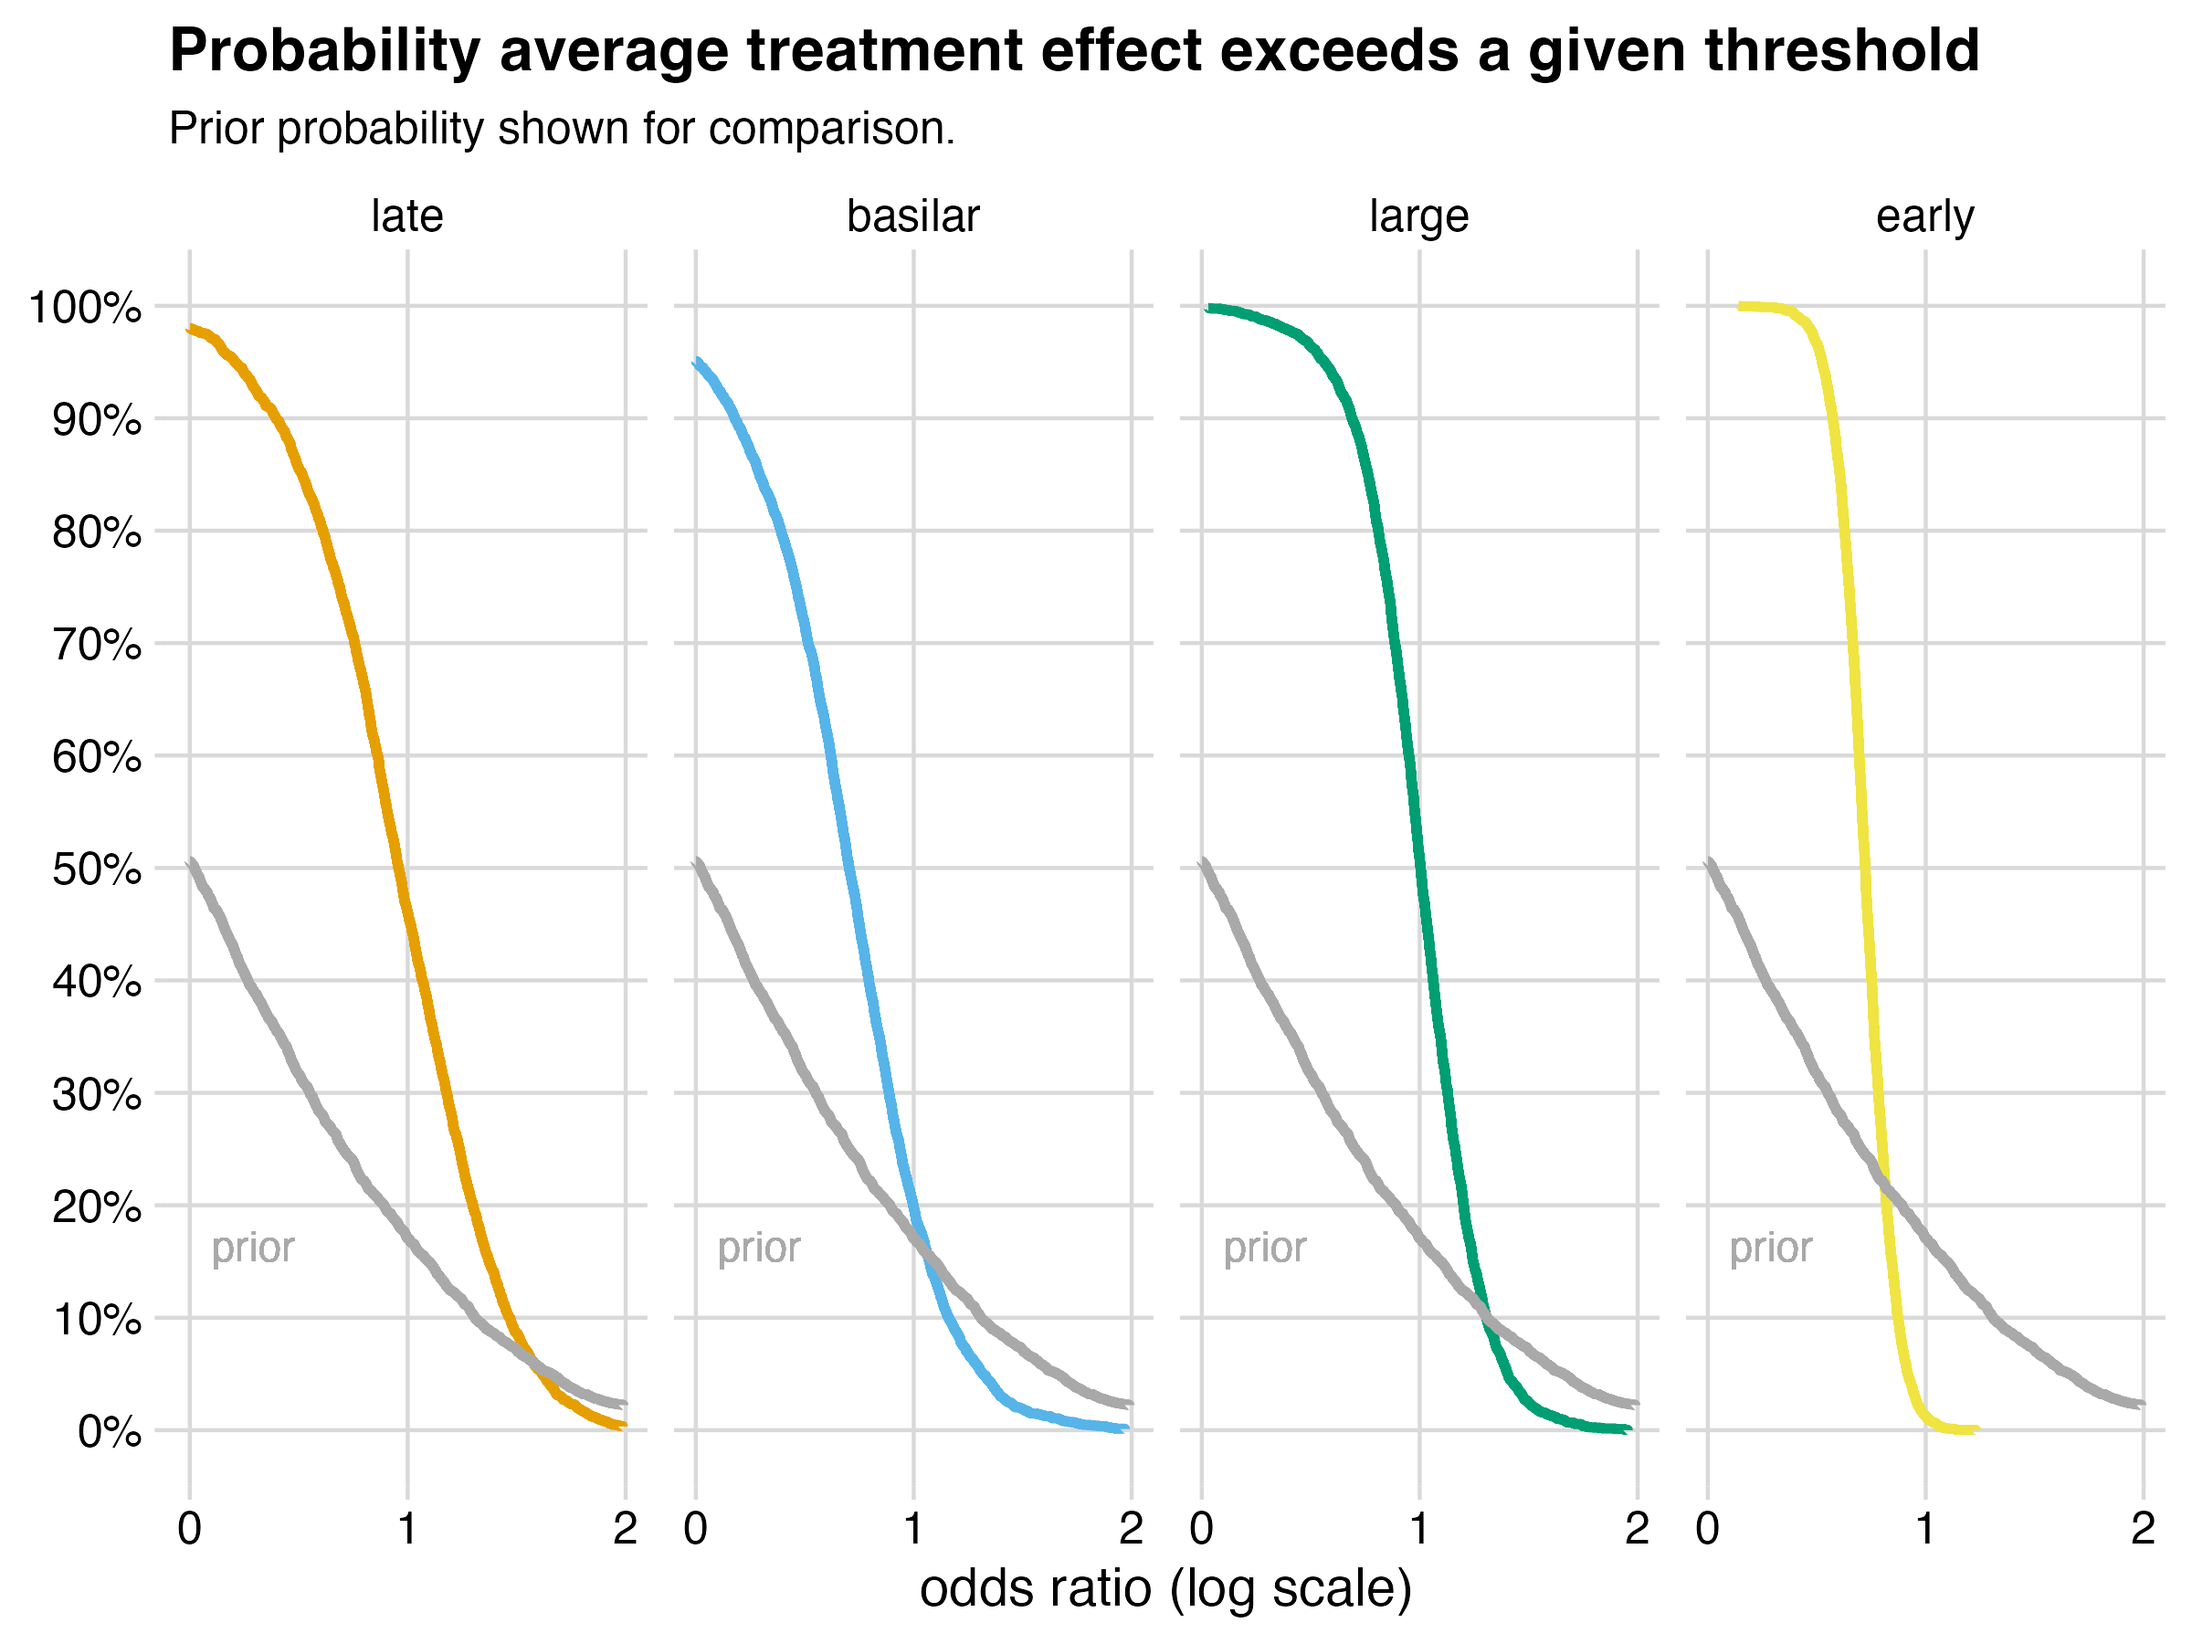
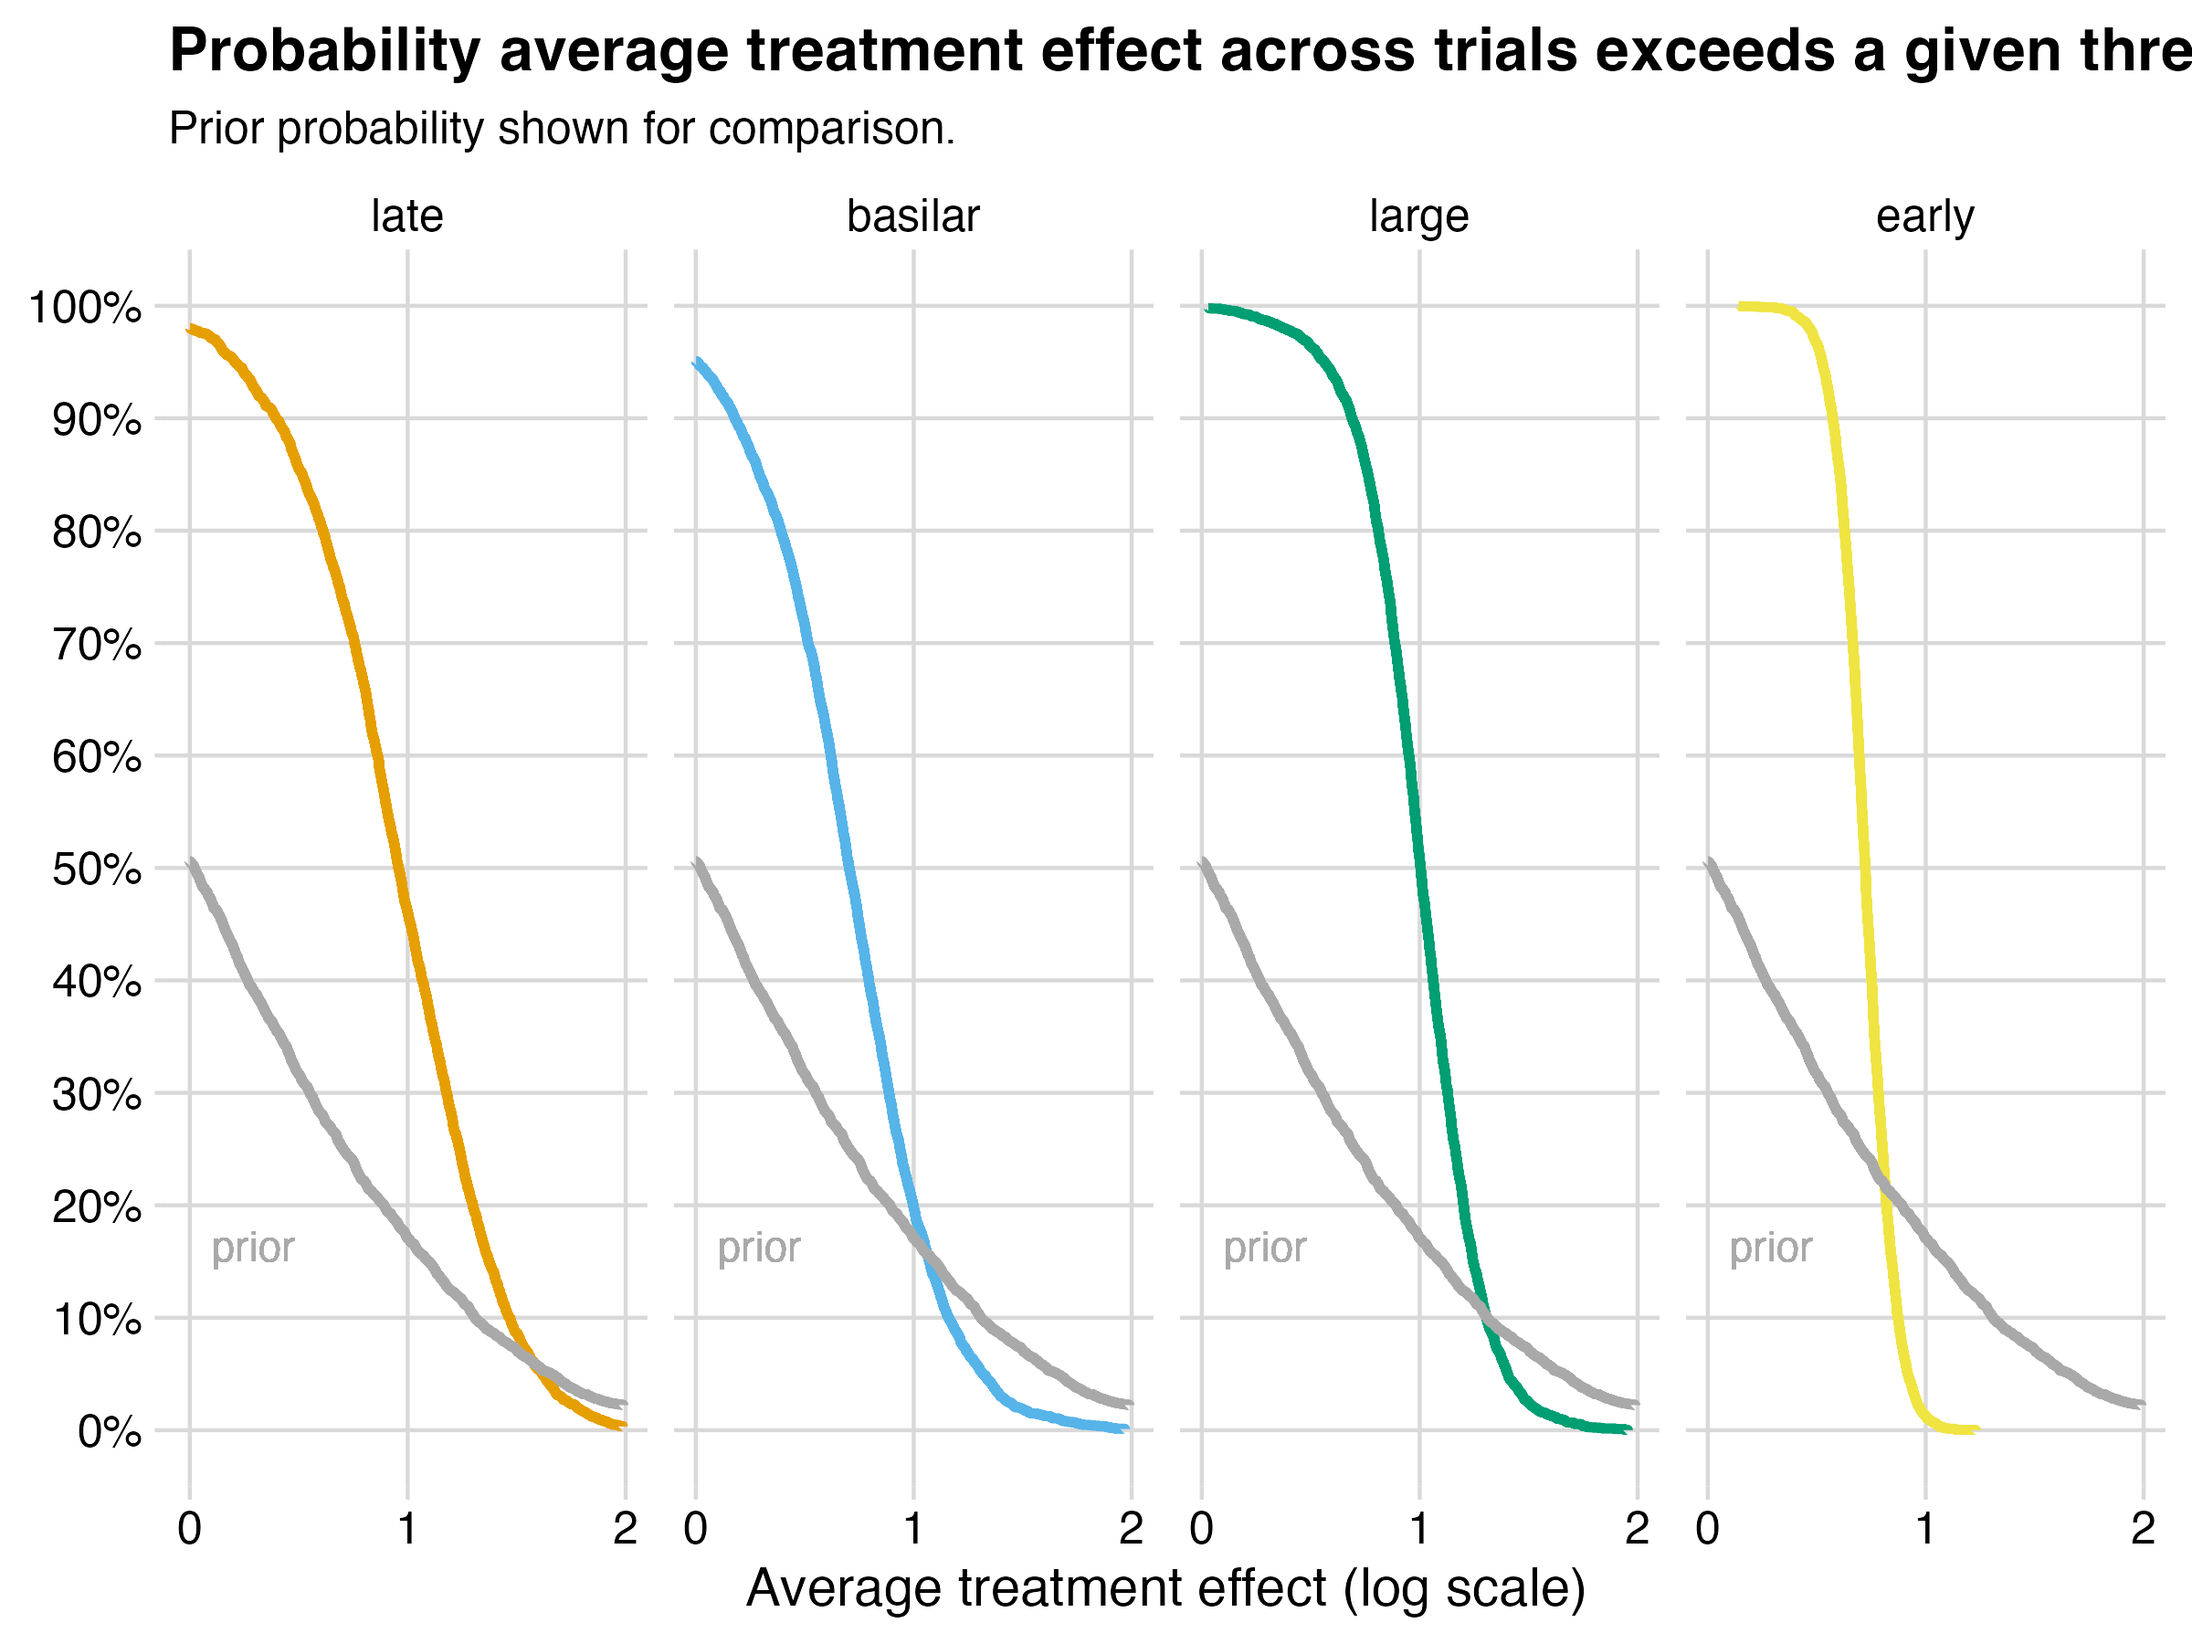
1

Changed region(s): [[0.5625, 0.0, 1.0, 0.0622], [0.3438, 0.9333, 0.7188, 0.9956]]

diff --git a/doc/analysis.md b/doc/analysis.md
@@ -14,54 +14,45 @@ anterior circulation strokes treated in a late time window. Category 4
 was strokes involving the basilar artery. The primary endpoint was
 functional independence at 90 days (modified Rankin score of 0 to 2).
 
-Results from the large stroke trials are shown here, with $y$
+Observed frequency of outcomes for control and treatment groups are
+shown below, with color corresponding to stroke type and the size of the
+bubble to the sample size of the trial. Bubbles above the grey dashed
+line denote trials in which the frequency of good outcome at 90 days was
+greater for thrombectomy patients than for those treated with best
+medical management only.
+
+![](images/scatter_plot-01.png)
+
+Effect sizes from each of the stroke trials are shown here, with $y$
 representing the observed treatment effect of thrombectomy (the odds
 ratio on the log scale) and $\text{se}$ representing the standard error
 for $y$.
 
-    # A tibble: 5 × 9
-          J name        K   n_c   r_c   n_t   r_t     y    se
-      <dbl> <chr>   <dbl> <dbl> <dbl> <dbl> <dbl> <dbl> <dbl>
-    1     1 ANGEL       1   225    26   230    69 1.19  0.253
-    2     2 RESCUE      1   102     8   100    14 0.649 0.468
-    3     3 SELECT2     1   171    12   177    36 1.22  0.353
-    4     4 TENSION     1   122     3   124    21 2.09  0.632
-    5     5 TESLA       1   146    13   151    22 0.557 0.371
-
-Results from the early stroke trials are shown here.
-
-    # A tibble: 9 × 9
-          J name          K   n_c   r_c   n_t   r_t     y    se
-      <dbl> <chr>     <dbl> <dbl> <dbl> <dbl> <dbl> <dbl> <dbl>
-    1     6 ESCAPE        2   146    43   164    89 1.04  0.240
-    2     7 EXTEND        2    34    14    35    25 1.27  0.511
-    3     8 MRCLEAN       2   265    52   233    77 0.704 0.208
-    4     9 PISTE         2    30    12    33    17 0.466 0.510
-    5    10 RESILIENT     2   111    23   111    39 0.729 0.307
-    6    11 REVASCAT      2   103    29   103    45 0.683 0.296
-    7    12 SWIFT         2    94    33    97    59 1.05  0.300
-    8    13 THERAPY       2    46    14    50    19 0.337 0.433
-    9    14 THRACE        2   202    85   200   106 0.440 0.201
-
-Results of the late stroke trials are shown here.
-
-    # A tibble: 4 × 9
-          J name            K   n_c   r_c   n_t   r_t     y    se
-      <dbl> <chr>       <dbl> <dbl> <dbl> <dbl> <dbl> <dbl> <dbl>
-    1    15 DAWN            3    99    13   107    51 1.80  0.355
-    2    16 DEFUSE3         3    91    14    91    40 1.46  0.359
-    3    17 MRCLEANLATE     3   247    84   252    99 0.228 0.186
-    4    18 POSITIVE        3    21     9    12     9 1.39  0.799
-
-Basilar stroke trial results are shown here.
-
-    # A tibble: 4 × 9
-          J name          K   n_c   r_c   n_t   r_t     y    se
-      <dbl> <chr>     <dbl> <dbl> <dbl> <dbl> <dbl> <dbl> <dbl>
-    1    19 ATTENTION     4   114    12   226    75 1.44  0.336
-    2    20 BAOCHE        4   107    15   110    43 1.37  0.340
-    3    21 BASICS        4   146    44   154    54 0.225 0.247
-    4    22 BEST          4    65    18    66    22 0.267 0.381
+    # A tibble: 22 × 5
+           J     K name            y    se
+       <dbl> <dbl> <chr>       <dbl> <dbl>
+     1     1     1 ANGEL       1.19  0.253
+     2     2     1 RESCUE      0.649 0.468
+     3     3     1 SELECT2     1.22  0.353
+     4     4     1 TENSION     2.09  0.632
+     5     5     1 TESLA       0.557 0.371
+     6     6     2 ESCAPE      1.04  0.240
+     7     7     2 EXTEND      1.27  0.511
+     8     8     2 MRCLEAN     0.704 0.208
+     9     9     2 PISTE       0.466 0.510
+    10    10     2 RESILIENT   0.729 0.307
+    11    11     2 REVASCAT    0.683 0.296
+    12    12     2 SWIFT       1.05  0.300
+    13    13     2 THERAPY     0.337 0.433
+    14    14     2 THRACE      0.440 0.201
+    15    15     3 DAWN        1.80  0.355
+    16    16     3 DEFUSE3     1.46  0.359
+    17    17     3 MRCLEANLATE 0.228 0.186
+    18    18     3 POSITIVE    1.39  0.799
+    19    19     4 ATTENTION   1.44  0.336
+    20    20     4 BAOCHE      1.37  0.340
+    21    21     4 BASICS      0.225 0.247
+    22    22     4 BEST        0.267 0.381
 
 The pooled data by category are shown in the following table.
 
@@ -80,48 +71,45 @@ The overall pooled data is shown in the following table.
        <int>         <dbl> <dbl>  <dbl>
     1     22          5513 0.744 0.0611
 
-## Estimated average treatment effect of thrombectomy across trials
+## Average treatment effect
 
-![](images/density_posterior.png)
+The estimated average treatment effect of thrombectomy across trials for
+each stroke type is shown below.
+
+![](images/histogram_posterior.png)
 
 For early stroke, the plotted values correspond to an estimated 106%
 average improvement in the odds of functional independence at 90 days
-with thrombectomy (95% CI 61.9% to 161%, P(+) = 100%).
+with thrombectomy (95% CI 61.9% to 161%). The probability that the
+effect is positive is 100%.
 
 For large stroke, the plotted values correspond to an estimated 173%
 average improvement in the odds of functional independence at 90 days
-with thrombectomy (95% CI 54.8% to 347%, P(+) = 99.8%).
+with thrombectomy (95% CI 54.8% to 347%). The probability that the
+effect is positive is 99.8%.
 
 For late stroke, the plotted values correspond to an estimated 161%
 average improvement in the odds of functional independence at 90 days
-with thrombectomy (95% CI 7.9% to 467%, P(+) = 98%).
+with thrombectomy (95% CI 7.9% to 467%). The probability that the effect
+is positive is 98%.
 
 For basilar stroke, the plotted values correspond to an estimated 102%
 average improvement in the odds of functional independence at 90 days
-with thrombectomy (95% CI -15.1% to 319%, P(+) = 95.1%).
-
-## Probability the estimated average treatment effect of thrombectomy across trials exceeds certain values
-
-The probability that the estimated average treatment effect of
-thrombectomy across trials is positive is shown in the following table.
-
-    # A tibble: 4 × 2
-      data    prob_pos
-      <chr>      <dbl>
-    1 large      0.998
-    2 early      1    
-    3 late       0.980
-    4 basilar    0.951
+with thrombectomy (95% CI -15.1% to 319%). The probability that the
+effect is positive is 95.1%.
 
 For each effect size greater than the zero, the probability that the
 estimated average treatment effect exceeds that value is shown in the
 following plot.
 
-![](images/ccdf_posterior.png)
+![](images/ccdf_posterior-02.png)
 
-## Anticipated relative treatment effect of thrombectomy in a new trial
+## Anticipated treatment effect in a new trial
 
-![](images/density_predictive.png)
+The anticipated treatment effect of thrombectomy in a hypothetical new
+trial for each stroke type is shown below.
+
+![](images/histogram_predictive.png)
 
 Translated from the log scale, the anticipated treatment effect of
 thrombectomy in a new early stroke trial has an odds ratio of 2.06 (95%
@@ -155,4 +143,4 @@ For each effect size greater than the zero, the probability that the
 anticipated treatment effect in a new trial exceeds that value is shown
 in the following plot.
 
-![](images/ccdf_predictive.png)
+![](images/ccdf_predictive-01.png)
